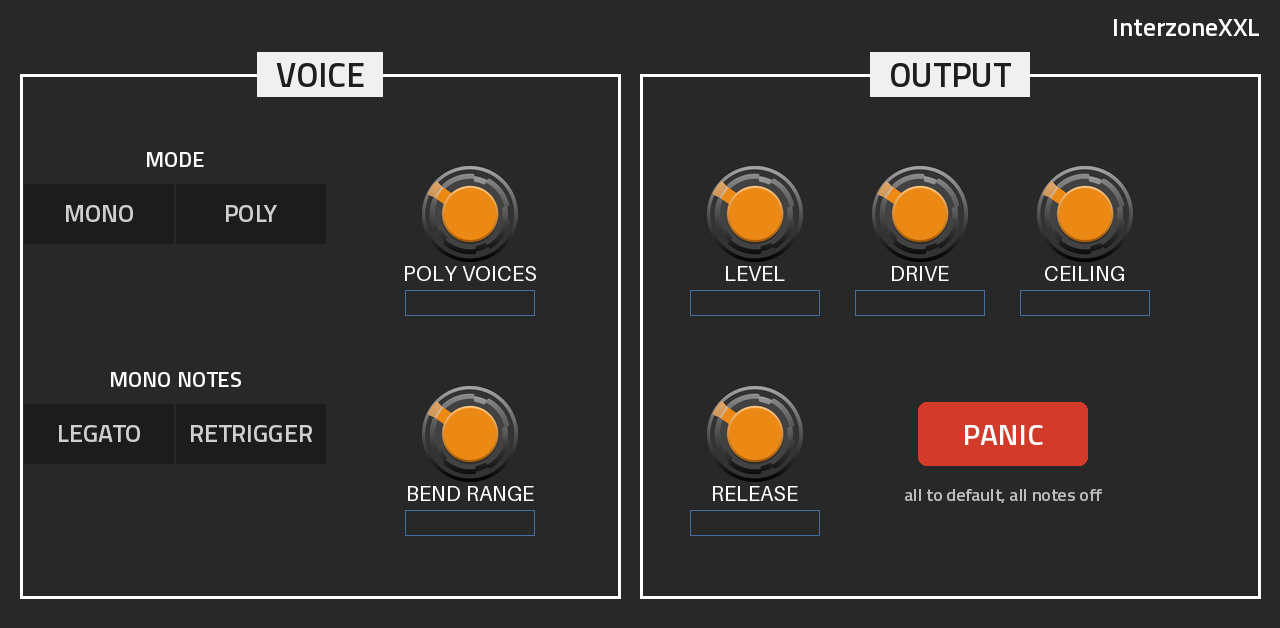
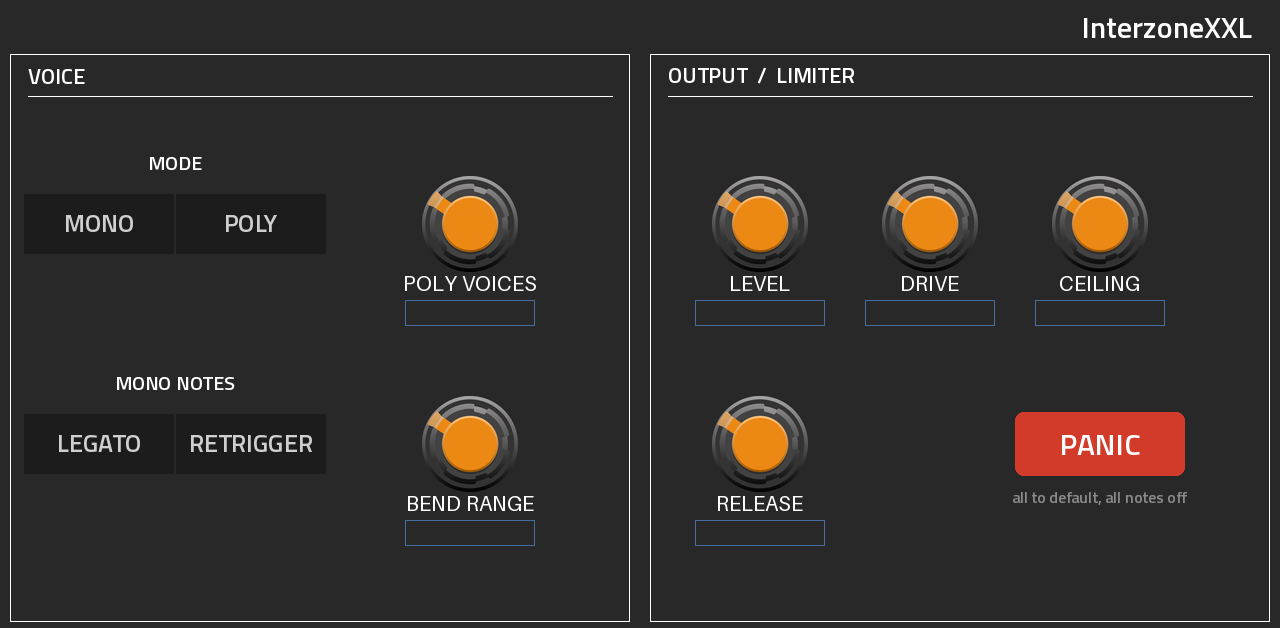
Docs, catalog entry and release notes for the full 0.1.0
Claude-Session: https://claude.ai/code/session_017DyzAbNmnEyDLugWgazHdN

diff --git a/README.md b/README.md
@@ -1,27 +1,30 @@
 # InterzoneXXL v0.1.0
 
-**Valley Audio's Interzone synth voice, played from MIDI in mono or poly, running natively inside MPC OS on the
-Akai Force.**
+**Valley Audio's Interzone synth voice, played from MIDI in mono or poly and patched with its own LFOs, random
+sources and sequencers, running natively inside MPC OS on the Akai Force.**
 
 InterzoneXXL is a VST2 instrument for MPC OS's built-in plugin host, made by L'Cronx (shown on the device as
 **InterzoneXXL** by **ANDREALPHEUS**). It is a port of **Interzone**, Dale Johnson's classic monosynth voice for VCV
 Rack: a VCO with glide, pitch modulation, pulse-width modulation and a sub wave, a mixer with noise, a resonant 2/4-pole
 OTA filter with a high-pass, an LFO with seven waves, a looping envelope and a VCA. The pages are the module's panel,
 drawn from Valley's own artwork, sliders where the module has sliders, knobs where it has knobs, switches where it has
-switches.
+switches. On VCV Rack, Interzone comes alive through what is patched into its jacks; a Force has no cables, so, as in
+[PlateauXXL](https://github.com/sunskiefer/PlateauXXL), every input jack picks a source running inside the plugin.
 
 > [!NOTE]
-> **Status: 0.1.0, milestone 1 (the voice).** Built and tested offline: the plugin's output is compared, sample for
-> sample, with Valley's own Interzone module code fed the same notes (x86, ASan + UBSan). **Not yet tested on a
-> device.** The module's CV inputs get built-in sources (patching, gate/CV sequencers, as in
-> [PlateauXXL](https://github.com/sunskiefer/PlateauXXL)) in the next milestones: see the [Roadmap](ROADMAP.md).
+> **Status: 0.1.0, built and tested offline:** the plugin's output is compared, sample for sample, with Valley's own
+> Interzone module code fed the same notes and the same patch cables (x86, ASan + UBSan). **Not yet tested on a
+> device.** Report anything odd under [Issues](../../issues).
 
 | | |
 | --- | --- |
 | ![VCO](docs/img/vco.png) | ![FILTER / LFO](docs/img/filter-lfo.png) |
 | ![MIXER / ENV](docs/img/mixer-env.png) | ![VOICE](docs/img/voice.png) |
+| ![CV IN](docs/img/cv-in.png) | ![CV IN sources](docs/img/cv-in-sources.png) |
+| ![LFO](docs/img/lfo.png) | ![TIDAL](docs/img/tidal.png) |
+| ![RANDOM](docs/img/random.png) | ![SEQ](docs/img/seq.png) |
 
-*The pages, rendered offline from the skin (on the device MPC fills in the values above the sliders).*
+*The pages, rendered offline from the skin (on the device MPC fills in the values).*
 
 ## Highlights
 
@@ -31,10 +34,24 @@ switches.
   Retrigger. Poly is Interzone's own polyphony (its DSP runs four voices per SIMD group) with 1 to 16 voices, the
   oldest note stolen when they are all busy. Pitch bend (0-24 semitones) and the sustain pedal work in both.
 - **The module's panel:** VCO, FILTER / LFO and MIXER / ENV pages, each a piece of Interzone's dark panel with
-  Valley's sliders, Rogan knobs and VCV's switches; values above the sliders.
-- **VOICE page:** voice mode, poly voices, mono retrigger, bend range, output level, and RMXXXL's brickwall limiter
-  (Drive, Ceiling, Release). **Panic:** one tap back to the defaults, every note off.
-- **Q-Links:** every control on a Q-Link, the panel read left to right (bank 1 = Q-Links 1-8, bank 2 = 9-16).
+  Valley's sliders, Rogan knobs and VCV's switches at the module's own positions; values above the sliders.
+- **Every input jack patched:** VOct 2, PWM, Mixer Ext, Filter Freq 1 and 2 (with the module's blue
+  attenuverters), Res, VCA Level (with its attenuverter), LFO Rate, Trig and Reset, Env Gate and Trig each pick a
+  source and have an amount, on the **CV IN** page, as if a cable were plugged in.
+- **The sources (PlateauXXL's):** four **Bogaudio LFOs**, **Tidal Modulator 2** (Mutable Tides 2), **Random
+  Sampler** (Mutable Marbles), two 16-step **CV sequencers** and two 16-step **gate sequencers**, locked to the MPC
+  tempo if you like; plus Interzone's own output jacks (its LFO's seven waves, the envelope + and -, the VCO's saw,
+  pulse and sub, per voice in Poly), MIDI velocity, mod wheel and pressure.
+- **Ext Osc:** a simple oscillator per voice that follows the played note (saw, square, triangle, sine or noise,
+  -3 to +2 octaves, tune, width); it feeds Mixer Ext by default, so the Ext slider is a second oscillator or a
+  sub. Patch it anywhere else too.
+- **A gate sequencer plays the voice:** Env Gate's source gates the envelope even with no key down, Env Trig's
+  retriggers held notes, Seq 1 / 2 into VOct 2 transposes: an internal sequenced synth.
+- **VOICE page:** voice mode, poly voices, mono retrigger, bend range, output level, RMXXXL's brickwall limiter
+  (Drive, Ceiling, Release) and **Panic** (one tap back to the defaults, every note off). **EXT OSC** and
+  **PRESETS** (16 slots of your own) on the same tab.
+- **Q-Links:** every control on a Q-Link (the Interzone pages read left to right, bank 1 = Q-Links 1-8,
+  bank 2 = 9-16).
 - **Sample-accurate notes:** sequenced notes start at their exact position in the audio block.
 
 ## Requirements
@@ -58,6 +75,8 @@ ssh -t root@<device-ip> sh /tmp/InterzoneXXL-<version>/install.sh
 The installer asks for confirmation (`-y` skips it), **stops MPC** (save your project first), copies the plugin to
 `/sdcard/Synths/ANDREALPHEUS - VST - InterzoneXXL/`, backs up and edits `MPC.settings`, and starts MPC again. Then
 load **InterzoneXXL** (manufacturer ANDREALPHEUS) as a plugin instrument on a track. `uninstall.sh` removes it.
+Presets go in `/sdcard/InterzoneXXL Presets` (created on the first save), outside the plugin folder, so they
+survive updates.
 
 ## Building
 
@@ -75,15 +94,18 @@ tools/device_bench.sh <device-ip>   # CPU on the device, Mono and Poly 16 (nothi
 - `tools/gen_params.py` is the single source of the parameter list (`params.json`, `src/param_ids.h`). MPC stores
   automation by parameter index, so parameters are appended only.
 - `tools/panel.py` places every control where the module has it; `tools/layout.py` writes `layout.conf` from it, and
-  `tools/panel_art.py` draws the skin from Valley's and VCV's artwork (`art/`).
+  `tools/panel_art.py` draws the Interzone pages from Valley's and VCV's artwork (`art/`). The source pages come
+  from PlateauXXL (`tools/source_pages.py`, `tools/knob_art.py`, `tools/post_skin.py`).
 
 ## Related projects
 
 - [mpc-vst-plugins](https://github.com/sd88me/mpc-vst-plugins) by sd88me: the framework InterzoneXXL is built on,
   and the plugin catalog.
 - [PlateauXXL](https://github.com/sunskiefer/PlateauXXL) and [RMXXXL](https://github.com/sunskiefer/RMXXXL) by the
-  same author: the build, the limiter, Panic and the Q-Link handling come from them.
-- [ValleyRackFree](https://github.com/ValleyAudio/ValleyRackFree): the VCV Rack module InterzoneXXL ports.
+  same author: the patching, the sources and sequencers, the presets, the limiter, Panic and the Q-Link handling come
+  from them.
+- [ValleyRackFree](https://github.com/ValleyAudio/ValleyRackFree), [BogaudioModules](https://github.com/bogaudio/BogaudioModules)
+  and [Audible Instruments](https://github.com/VCVRack/AudibleInstruments): the VCV Rack modules InterzoneXXL ports.
 
 ## License
 
@@ -100,12 +122,19 @@ graphics (CC BY-NC 4.0), so InterzoneXXL is free and must not be sold.
 - **VCV Rack's SIMD and DSP headers:** VCV (GPL-3.0-or-later), unchanged in `third_party/rack`
   ([VENDORED.md](third_party/rack/VENDORED.md)).
 - **SIMDe:** Evan Nemerson and contributors (MIT), the SSE-on-NEON layer Rack uses on ARM, in `third_party/simde`.
-- **Brickwall limiter, Panic, Q-Link handling:** from [RMXXXL](https://github.com/sunskiefer/RMXXXL) and
-  [PlateauXXL](https://github.com/sunskiefer/PlateauXXL) by L'Cronx (GPL-3.0-or-later).
+- **LFO:** Matt Demanett, [Bogaudio](https://github.com/bogaudio/BogaudioModules) (GPL-3.0-or-later), vendored
+  unchanged in `third_party/bogaudio`.
+- **Tidal Modulator 2 and Random Sampler:** Emilie Gillet, Mutable Instruments Tides 2 and Marbles (MIT), from VCV's
+  fork of the eurorack code, in `third_party/mutable`; the module glue follows VCV Audible Instruments
+  (GPL-3.0-or-later).
+- **Patching, sources, sequencers, presets, brickwall limiter, Panic, Q-Link handling:** from
+  [PlateauXXL](https://github.com/sunskiefer/PlateauXXL) and [RMXXXL](https://github.com/sunskiefer/RMXXXL) by
+  L'Cronx (GPL-3.0-or-later).
 - **VST2 wrapper, skin generator, installer:** sd88me ([mpc-vst-plugins](https://github.com/sd88me/mpc-vst-plugins))
   (MIT), as a submodule in `third_party/mpc-vst-plugins`.
-- **Artwork** (`art/`): Interzone's panel, Valley's sliders and Rogan knobs (ValleyRackFree), VCV's switches (VCV
-  Component Library, CC BY-NC 4.0); see [art/README.md](art/README.md).
+- **Artwork** (`art/`): Interzone's panel, Valley's sliders and Rogan knobs (ValleyRackFree), VCV's switches and
+  Rogan knobs (VCV Component Library, CC BY-NC 4.0), Bogaudio's knobs (CC BY-SA 4.0); see [art/README.md](art/README.md).
 - **Interface font:** [Titillium Web](https://fonts.google.com/specimen/Titillium+Web), SIL Open Font License 1.1.
 
-InterzoneXXL is not affiliated with or endorsed by Valley Audio, VCV or Akai Professional.
+InterzoneXXL is not affiliated with or endorsed by Valley Audio, Bogaudio, Mutable Instruments, VCV or Akai
+Professional.

diff --git a/docs/USER_GUIDE.md b/docs/USER_GUIDE.md
@@ -1,5 +1,10 @@
 # InterzoneXXL user guide (0.1.0)
 
+## A first patch
+On MIXER / ENV raise Ext: the Ext Osc adds a square an octave below the VCO. On SEQ, GATE 1, switch on a few
+steps; on CV IN, CV 2, set ENV GATE to Gate 1; press play: the voice plays the gates. Set VOCT 2 to Seq 1 (CV 1) and
+turn some SEQ 1 steps: it plays a melody.
+
 ## Load it
 After installing (README), on a track choose a plugin instrument: **InterzoneXXL** by ANDREALPHEUS. Play it from
 the pads, a MIDI keyboard or a sequence. It starts in **Mono** with the module's defaults: a saw, the filter open,
@@ -14,7 +19,7 @@ slider or knob for MPC's large value overlay.
 **VCO:** Glide (the pitch slew, between any two notes) · Mod (pitch modulation depth, from the LFO or the envelope,
 the envelope with either polarity) · Semi / Cont (Coarse in semitones or continuous) · Octave (32' to 2') · Coarse
 (+-12 semitones) · Fine (+-100 cents) · Width (pulse width, square at the bottom) · PWM (depth, from the envelope with
-either polarity, the LFO, or Ext, which is 0 V until patching arrives).
+either polarity, the LFO, or Ext: the PWM jack, patched on CV IN).
 
 **FILTER / LFO:** Freq (cutoff, 13.75 Hz to 14 kHz) · Res · HPF (high-pass cutoff) · envelope polarity · 4P / 2P ·
 Env, LFO and VOct (how far the envelope, the LFO and the played pitch move the cutoff) · LFO Rate (0.1 Hz to 200 Hz) ·
@@ -22,17 +27,37 @@ Wave (sine, triangle, saw up, saw down, square, sample and hold, noise) · Fine 
 
 **MIXER / ENV:** the saw, pulse and sub levels, the sub's octave (+2 to -2: two octaves down, one down, a fourth
 down, unison, a fifth up, one and two octaves up) and wave (saw, square, narrow pulse), Pink / White, the noise and
-Ext levels (Ext is silent until patching arrives) · Long / Short (envelope time scale x10) · Cycle / Gate (Cycle loops
+Ext levels (Ext is the Mixer Ext jack: the Ext Osc by default) · Long / Short (envelope time scale x10) · Cycle / Gate (Cycle loops
 the envelope while a key is held) · Man. (holds the gate on its own: tap on, tap off; a drone) · A, D, S, R · VCA Gate
 / Env (the VCA follows the gate or the envelope).
 
-**VOICE:** Mode (Mono / Poly) · Poly Voices (1-16) · Mono Notes (Legato: a note played while another is held changes
+**VOICE** (three Q-Link sub-pages). VOICE: Mode (Mono / Poly) · Poly Voices (1-16) · Mono Notes (Legato: a note played while another is held changes
 the pitch without restarting the envelope, gliding if Glide is up; Retrigger: every note restarts the envelope) ·
 Bend Range (0-24 semitones) · Level (the summed voices, -6 dB by default) · the limiter: Drive, Ceiling, Release ·
-Panic (every setting back to its default, every note off).
+Panic (every setting back to its default, every note off; the preset slot stays). EXT OSC: the extra oscillator's
+wave (saw, square, triangle, sine, noise), octave (-3 to +2 from the played note), tune (+-12 semitones) and width
+(the square's). It follows each voice's pitch, Glide included. PRESETS: pick a slot, SAVE or LOAD; files in
+`/sdcard/InterzoneXXL Presets`.
+
+**CV IN** (two Q-Link sub-pages): Interzone's input jacks. Each has a source (the list below it) and an amount (the
+knob above it; 100 % is the cable plugged straight in, minus inverts). Freq 1 and Freq 2 use the module's own blue
+attenuverters and VCA Level its orange one, so they start at 0 as on the module: turn them up. CV 1: VOct 2 (1 V per
+octave: a sequencer here transposes), PWM (used when the VCO's PWM source is Ext), Mixer Ext (the Ext slider's
+input; Ext Osc by default), Freq 1, Freq 2, Res, VCA Level, LFO Rate (1 V per octave). CV 2, the gate jacks (high
+above 1 V): LFO Trig (a new S+H value), LFO Reset, Env Gate (added to the MIDI gate: a gate sequencer plays the voice
+with no key down, at its last pitch; in Poly every voice that has had a note), Env Trig (retriggers held notes).
+
+The sources: LFO 1-4, Tidal 1-4, X1-X3, Y and T1-T3 (Random Sampler), Seq 1-2, Gate 1-2, Ext Osc, Interzone's own
+jacks (IZ Sine, Tri, Saw Up, Saw Down, Pulse, S+H, Noise; Env + and -; VCO Saw, Pulse and Sub), Velocity, Mod Wheel
+and Pressure (0-10 V). The envelope, VCO, Ext Osc and velocity sources are per voice in Poly (a poly cable).
+
+**LFO** (LFO 1-4), **TIDAL / RANDOM** and **SEQ** (Seq 1-2, Gate 1-2, SEQ SET) are PlateauXXL's pages: four
+Bogaudio LFOs, Tidal Modulator 2, Random Sampler, two 16-step CV sequencers (+-5 V, slew) and two 16-step gate
+sequencers. Sync locks them to the MPC tempo; press play and they start from the top. See PlateauXXL's user guide for
+every control of these modules.
 
 ## Q-Links
-Every control is on a Q-Link, the panel read left to right: Q-Links 1-8 are the left half of the page, 9-16 the
+Every control is on a Q-Link. On the Interzone pages the panel reads left to right: Q-Links 1-8 are the left half of the page, 9-16 the
 right half (VCO: Glide, Mod, Mod polarity, Mod source, Semi/Cont, Octave, Coarse, Fine | Width, PWM, PWM polarity,
 PWM source).
 

diff --git a/.github/RELEASE_NOTES.md b/.github/RELEASE_NOTES.md
@@ -1,11 +1,11 @@
-**InterzoneXXL — Valley Audio's Interzone synth voice, played from MIDI in mono or poly, running natively inside MPC OS on the Akai Force.**
+**InterzoneXXL — Valley Audio's Interzone synth voice, played from MIDI in mono or poly and patched with its own LFOs, random sources and sequencers, running natively inside MPC OS on the Akai Force.**
 
-Load it as a plugin instrument on a track: a VCO with glide, pitch mod, PWM and a sub wave, a mixer with noise, a resonant 2/4-pole OTA filter with a high-pass, an LFO with seven waves, a looping envelope and a VCA, on pages drawn from the module's own panel, sliders and switches.
+Load it as a plugin instrument on a track: a VCO with glide, pitch mod, PWM and a sub wave, a mixer with noise, a resonant 2/4-pole OTA filter with a high-pass, an LFO with seven waves, a looping envelope and a VCA, on pages drawn from the module's own panel, sliders and switches. Every input jack picks a source running inside the plugin: four Bogaudio LFOs, Tidal Modulator 2, Random Sampler, two CV and two gate sequencers on the MPC tempo, an extra oscillator, Interzone's own outputs, velocity, mod wheel and pressure.
 
-> 🧪 **0.1.0 is milestone 1 (the voice), built and tested offline**: the plugin's output is checked against Valley's own Interzone module code, sample for sample, under ASan + UBSan. **Not yet tested on a device.** Save your projects before installing, and report problems under **Issues**. Full list: [CHANGELOG](https://github.com/sunskiefer/InterzoneXXL/blob/main/CHANGELOG.md).
+> 🧪 **0.1.0 is built and tested offline**: the plugin's output is checked against Valley's own Interzone module code, sample for sample (patched cables included), under ASan + UBSan. **Not yet tested on a device.** Save your projects before installing, and report problems under **Issues**. Full list: [CHANGELOG](https://github.com/sunskiefer/InterzoneXXL/blob/main/CHANGELOG.md).
 
 ## Pages
-**VCO** · **FILTER / LFO** · **MIXER / ENV** · **VOICE** (Mono / Poly 1-16, retrigger, bend range, level, limiter, Panic)
+**VCO** · **FILTER / LFO** · **MIXER / ENV** · **VOICE** (voice, limiter, Panic · EXT OSC · PRESETS) · **CV IN** · **LFO** (1-4) · **TIDAL / RANDOM** · **SEQ** (Seq 1-2, Gate 1-2, SEQ SET)
 
 ## Requirements
 - Akai Force (first generation); other Gen1 MPC OS units should work but are untested
@@ -18,14 +18,15 @@ Download **InterzoneXXL-0.1.0-mpc-armv7.zip** below, unzip it, then:
     scp -r InterzoneXXL-0.1.0 root@<device-ip>:/tmp/
     ssh -t root@<device-ip> sh /tmp/InterzoneXXL-0.1.0/install.sh
 
-The installer stops MPC (save first), installs the plugin, and starts MPC again. Then load **InterzoneXXL** (manufacturer ANDREALPHEUS) as a plugin instrument.
+The installer stops MPC (save first), installs the plugin, and starts MPC again. Then load **InterzoneXXL** (manufacturer ANDREALPHEUS) as a plugin instrument. Presets go in `/sdcard/InterzoneXXL Presets`.
 
 Guide: [docs/USER_GUIDE.md](https://github.com/sunskiefer/InterzoneXXL/blob/main/docs/USER_GUIDE.md)
 
 ## Credits
 - **Interzone:** Dale Johnson (Valley Audio)
-- **Brickwall limiter, Panic, Q-Link handling:** from [RMXXXL](https://github.com/sunskiefer/RMXXXL) and [PlateauXXL](https://github.com/sunskiefer/PlateauXXL)
+- **LFO:** Matt Demanett (Bogaudio) · **Tidal Modulator 2 and Random Sampler:** Emilie Gillet (Mutable Instruments Tides 2 and Marbles), VCV's port in Audible Instruments
+- **Patching, sources, presets, limiter, Panic:** from [PlateauXXL](https://github.com/sunskiefer/PlateauXXL) and [RMXXXL](https://github.com/sunskiefer/RMXXXL)
 - **Plugin framework, skin tools and installer:** sd88me ([mpc-vst-plugins](https://github.com/sd88me/mpc-vst-plugins))
-- **Artwork:** Valley (ValleyRackFree), VCV Component Library (CC BY-NC 4.0) · **Interface font:** Titillium Web (SIL Open Font License)
+- **Artwork:** Valley (ValleyRackFree), VCV Component Library (CC BY-NC 4.0), Bogaudio (CC BY-SA 4.0) · **Interface font:** Titillium Web (SIL Open Font License)
 
 Licensed GPL-3.0-or-later. Free, not for sale.

diff --git a/ROADMAP.md b/ROADMAP.md
@@ -1,22 +1,12 @@
 # Roadmap
 
-One milestone at a time, each tested on the Force before the next.
+## Now: 0.1.0 on the Force
+The whole instrument, tested in one go. **To check:** it loads as an instrument and plays from pads and sequences;
+Mono legato / retrigger and Poly; the Interzone pages' sliders, knobs and switches by touch and Q-Link, values above
+the sliders; CV IN sources and amounts; the LFO, TIDAL / RANDOM and SEQ pages on the MPC tempo (play and stop); a
+gate sequencer playing the voice with no key down; Ext Osc through the Ext slider; presets save and load; projects
+save and reload; CPU (`tools/device_bench.sh`), to choose the default voice count. Then the GitHub release and the
+catalog listing (mpc-vst-plugins).
 
-## Milestone 1: the voice (0.1.0)
-Interzone played from MIDI in Mono and Poly, its three panel pages with the module's sliders, knobs and switches,
-the VOICE page. **To check on the Force:** it loads as an instrument, plays from pads and sequences, Mono legato /
-retrigger and Poly behave, the sliders, knobs and switches look and move right (touch and Q-Links), values show,
-projects save and reload, CPU (`tools/device_bench.sh`) for choosing the default voice count.
-
-## Milestone 2: patching (as PlateauXXL)
-- A CV IN page: every input jack of the module (VOct 2, PWM, Mixer Ext, Filter Freq 1 and 2 with their blue
-  attenuverters, Res, VCA Level with its attenuverter, LFO Rate, Trig and Reset, Env Gate and Trig) picks a source
-  and has an amount.
-- The shared source pool from PlateauXXL: four Bogaudio LFOs, Tidal Modulator 2, Random Sampler, two CV step and
-  two gate sequencers, on the MPC tempo, each page drawn like its module.
-- Interzone's own outputs as sources (LFO waves, S+H, noise, envelope + and -), per voice in Poly.
-- Mixer Ext / Noise Ext: a simple extra oscillator (noise and sub waves, following the played note) or any source.
-
-## Milestone 3
-- 16 user presets (PlateauXXL's), a catalog listing (mpc-vst-plugins), an Instruments-browser tile.
-- MIDI velocity and mod wheel as sources.
+## Later
+- An Instruments-browser tile (Sounds > INSTRUMENTS).

diff --git a/CHANGELOG.md b/CHANGELOG.md
@@ -1,7 +1,6 @@
 # Changelog
 
-## 0.1.0 (unreleased: waiting for the Force test)
-Milestone 1: the voice.
+## 0.1.0
 - Interzone (Valley Audio) as an MPC OS VST2 instrument: VCO (glide, pitch mod, pulse width and PWM, octave, coarse
   continuous or semitone, fine), mixer (saw, pulse, sub with its octave and wave, white / pink noise, Ext), filter
   (2/4-pole OTA low-pass, resonance, high-pass, envelope with polarity, LFO, V/Oct tracking), LFO (seven waves, rate,
@@ -9,8 +8,12 @@ Milestone 1: the voice.
 - Played from MIDI: Mono (last-note priority, Legato or Retrigger) or Poly (1-16 voices, Interzone's own polyphony),
   pitch bend with a 0-24 semitone range, the sustain pedal, CC 120 / 123 all notes off. Sample-accurate note starts.
 - Pages drawn from the module: VCO, FILTER / LFO and MIXER / ENV, each Interzone's own dark panel with Valley's
-  sliders and Rogan knobs and VCV's switches at the module's own positions. VOICE page: mode, voices, retrigger, bend,
-  Level, RMXXXL's brickwall limiter and Panic.
-- Every control on a Q-Link, the panel read left to right.
-- The module's CV inputs read 0 V for now (patching comes next; see ROADMAP.md).
-- Tests: the plugin against Valley's own module code (sample for sample), voices, pedal, Panic, state, stability.
+  sliders and Rogan knobs and VCV's switches at the module's own positions.
+- Patching (as PlateauXXL): every input jack of the module picks a source and has an amount on the CV IN page.
+  Sources: four Bogaudio LFOs, Tidal Modulator 2, Random Sampler, two CV and two gate sequencers (SEQ, with SEQ SET),
+  on the MPC tempo; Interzone's own output jacks (per voice in Poly); MIDI velocity, mod wheel and pressure.
+- Ext Osc: an extra oscillator per voice following the played note, Mixer Ext's source by default.
+- VOICE tab: VOICE (mode, voices, retrigger, bend, level, RMXXXL's limiter, Panic), EXT OSC, PRESETS (16 slots).
+- Every control on a Q-Link.
+- Tests: the plugin against Valley's own module code (sample for sample, with patched cables too), the sources,
+  voices, pedal, Ext Osc, patching, presets, Panic, state, stability.
